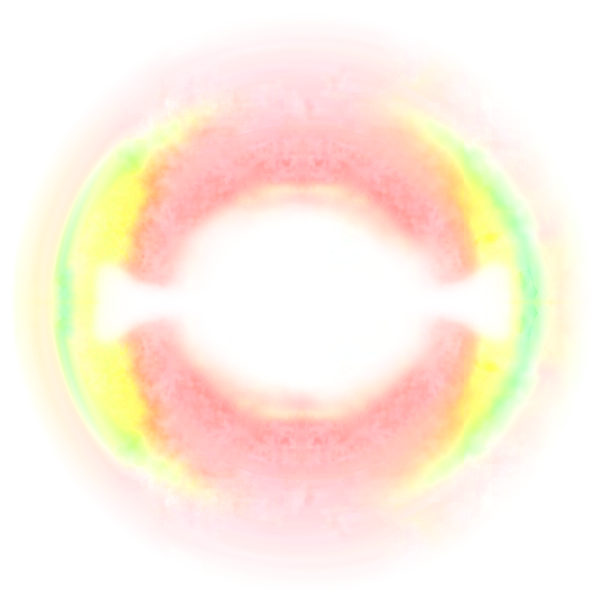
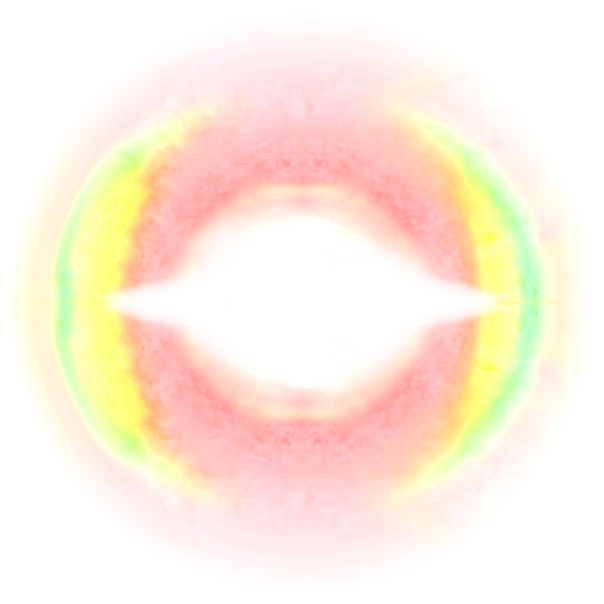
Efekt 10 kare 2: bant küreden kalın çıkıp paranteze doğru incelir, devamında %50 sarı çizgi; titanyum beyaz %10 küçük
Claude-Session: https://claude.ai/code/session_01E9c1WiJsMc9gXSJZ9D4z6g

diff --git a/arayuz/araclar/efekt10/kare_02.py b/arayuz/araclar/efekt10/kare_02.py
@@ -9,19 +9,19 @@ from PIL import Image
 from scipy import ndimage
 B_=os.path.dirname(os.path.abspath(__file__)); K=os.path.join(B_,"..","..","kaynak","efekt10","kareler"); ONZ=os.path.join(B_,"..","..","onizlemeler")
 YX,YY=1.35,1.05                      # beyaz kurenin yatay/dikey genisleme orani
-CIZGI_OPAK=0.50; SARI=np.array([0xF5,0xF0,0x6A],np.float32)/255
+CIZGI_OPAK=0.50; SARI=np.array([0xF7,0xE6,0x45],np.float32)/255
 a=np.asarray(Image.open(os.path.join(K,"kare_01.png")).convert("RGBA")).astype(np.float32)/255
 L=a[...,:3]*a[...,3:4]; H,W=L.shape[:2]; cy,cx=(H-1)/2,(W-1)/2
 yy,xx=np.mgrid[0:H,0:W].astype(np.float32); dx,dy=xx-cx,yy-cy
 # 1) beyaz kure (kullanici cizimi): yanlara genisleyen mercek/goz bicimi + iki yandan disari uzanan yatay bant.
 #    Bicim alani s: elips (yari genislik 150, yari yukseklik 96) ile yatay bant (yari kalinlik 16, uzunluk 245) yumusak birlesimi.
 #    s=1 kenar; renk kare_01'in kendi radyal gecisinden (beyaz -> sampanya -> seftali) ayni aci yonunde orneklenir.
-EA,EB,BK,BU=135.0,88.0,15.0,215.0
+EA,EB,BK,BU=121.5,79.2,15.0,200.0          # titanyum beyaz 1/10 kucuk
 el=np.hypot(dx/EA,dy/EB)
 # bant: ortada ince, parantezle birlestigi yerde (|dx| ~ 175-215) kalinlasir, sonra yumusakca biter
 ax=np.abs(dx)
-kalin=1+1.6*np.exp(-((ax-195)/28)**2)
-bt=np.maximum(np.abs(dy)/(BK*kalin),ax/(BU+12))+np.clip((ax-205)/25,0,None)   # parantez otesine tasmaz
+kalin=2.4-1.95*np.clip((ax-EA*0.75)/(BU-EA*0.75),0,1)**0.8         # kureden cikan taraf kalin, paranteze dogru incelir
+bt=np.maximum(np.abs(dy)/(BK*kalin),ax/(BU+12))+np.clip((ax-BU+5)/20,0,None)   # bant parantezden once biter; devaminda sari cizgi
 k=0.12; s_=-k*np.log(np.exp(-el/k)+np.exp(-bt/k))                 # yumusak min (birlesim)
 # duzensizlik: kenara organik dalga + ince puruz (acisal + 2B gurultu)
 rg=np.random.default_rng(12)
